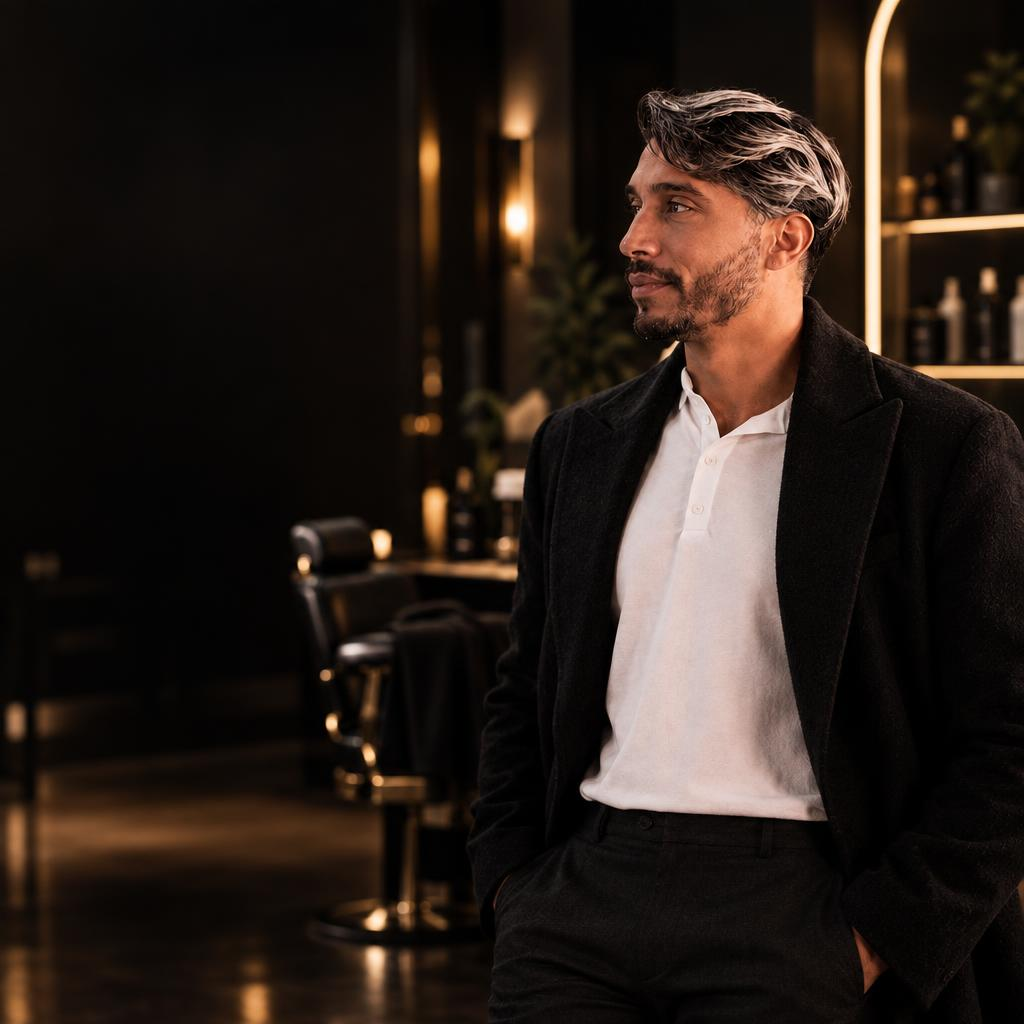
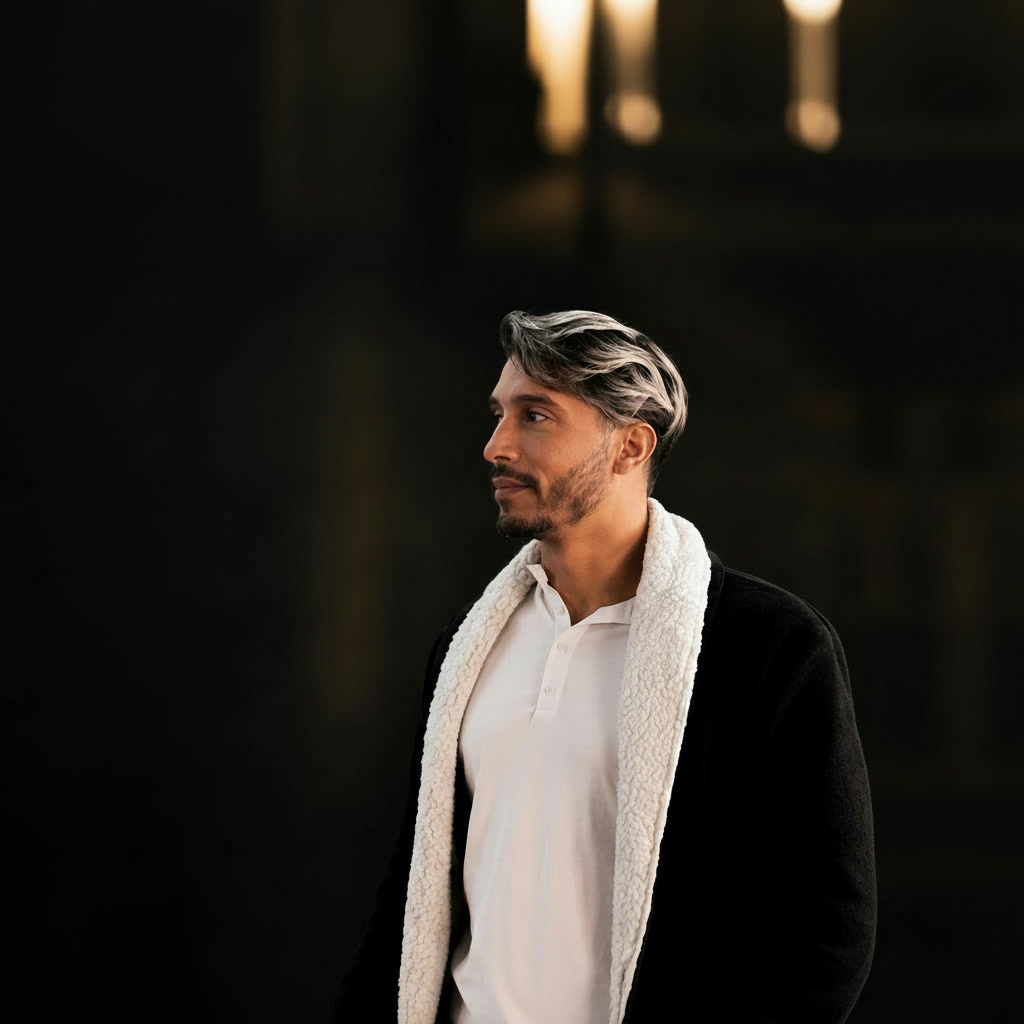
style hero

diff --git a/src/sections/hero.tsx b/src/sections/hero.tsx
@@ -4,28 +4,71 @@ import CircularText from "../../components/ui/circularText";
 
 export function Hero() {
     return (
-        <section className="hero relative flex h-svh py-50  md:items-center  px-4 text-white sm:px-10 md:px-20 justify-center lg:justify-start 2xl:px-45">
-
-
-            <div className="relative z-10 w-full text-center max-w-80 
-            md:max-w-140  lg:max-w-xl lg:text-start 2xl:max-w-2xl">
-                <span className="mb-6 ml-4 flex items-center gap-4 text-xs font-medium uppercase tracking-[0.2em] text-white justify-center lg:justify-start">
-
-                    <span className="h-px w-8 bg-[#C9A24D] hidden lg:block" />
+        <section
+            className="
+                hero relative flex h-svh
+                items-end justify-start
+                px-5 pb-16
+                text-white
+                sm:px-10 sm:pb-20
+                md:items-center md:px-20 md:pb-0
+                lg:justify-start
+                2xl:px-45
+            "
+        >
+            <div
+                className="
+                    relative z-10 w-full
+                    max-w-[340px]
+                    text-left
+                    sm:max-w-lg
+                    md:max-w-140
+                    lg:max-w-xl
+                    2xl:max-w-2xl
+                "
+            >
+                <span
+                    className="
+                        mb-6
+                        flex items-center gap-4
+                        text-xs font-medium uppercase
+                        tracking-[0.2em] text-white
+                    "
+                >
+                    <span className="hidden h-px w-8 bg-[#C9A24D] lg:block" />
                     UM MOMENTO SÓ SEU
-
                 </span>
-                <h1 className="text-4xl font-medium  sm:text-5xl md:text-6xl lg:leading-18 2xl:text-7xl 2xl:leading-20">
+
+                <h1
+                    className="
+                        text-4xl font-medium
+                        sm:text-5xl
+                        md:text-6xl
+                        lg:leading-18
+                        2xl:text-7xl 2xl:leading-20
+                    "
+                >
                     A arte de cuidar da{" "}
-                    <span className="text-[#C9A24D]">sua beleza</span>
+                    <span className="text-[#C9A24D]">
+                        sua beleza
+                    </span>
                 </h1>
 
-                <p className="mx-auto mt-5 max-w-sm text-sm leading-relaxed text-[#F2EDE9]/80 sm:text-base md:max-w-xl md:text-lg lg:mx-0">
-                    Cabelo, sobrancelhas e unhas para realçar sua beleza e expressar
-                    seu estilo. Atendimento no salão ou no conforto da sua casa.
+                <p
+                    className="
+                        mt-5 max-w-sm
+                        text-sm leading-relaxed
+                        text-[#F2EDE9]/80
+                        sm:text-base
+                        md:text-lg
+                    "
+                >
+                    Cabelo, sobrancelhas e unhas para realçar
+                    sua beleza e expressar seu estilo. Atendimento
+                    no salão ou no conforto da sua casa.
                 </p>
 
-                <div className="hidden lg:flex mt-5  items-center  gap-2 justify-start">
+                <div className="mt-5 hidden items-center gap-2 lg:flex">
                     <div className="h-0.5 w-full max-w-70 rounded-full bg-[#8b6d1f] sm:max-w-90 lg:w-110" />
 
                     <TbSparkle
@@ -35,12 +78,12 @@ export function Hero() {
                     />
                 </div>
 
-                <Button text="Agende seu horário" className="mt-8" onClick={() => alert("a")} />
+                <Button
+                    text="Agende seu horário"
+                    className="mt-8"
+                    onClick={() => alert("a")}
+                />
             </div>
-
-
-
-
         </section>
-    )
+    );
 }

diff --git a/components/ui/button.tsx b/components/ui/button.tsx
@@ -1,4 +1,3 @@
-
 "use client";
 
 import { ArrowRight } from "lucide-react";
@@ -8,35 +7,55 @@ interface ButtonProps {
   className?: string;
   onClick?: () => void;
 }
+
 export function Button({ text, className, onClick }: ButtonProps) {
   return (
-    <div className="relative mt-8 flex justify-center lg:justify-start">
-
+    <div className={`relative mt-8 flex justify-start ${className ?? ""}`}>
       <button
-        className="group relative z-20 flex w-full max-w-70 cursor-pointer items-center overflow-hidden rounded border border-[#b9913e] px-2 py-3 text-white transition"
+        className="
+          group relative z-20
+          flex w-full
+          cursor-pointer items-center
+          overflow-hidden rounded
+          border border-[#b9913e]
+          bg-[#b9913e]
+          px-4 py-3
+          text-white
+          transition
+          lg:max-w-70
+          lg:bg-transparent
+        "
         onClick={onClick}
       >
+        <div className="absolute left-0 top-0 hidden h-full w-10 bg-[#b9913e] transition-all duration-500 group-hover:w-full lg:block" />
 
-        <div className="absolute left-0 top-0 h-full w-10 bg-[#b9913e] transition-all duration-500 group-hover:w-full" />
+        {/* Texto centralizado */}
+        <span className="relative z-10 w-full text-center">
+          {text}
+        </span>
 
-
-        <div className="relative z-10 flex items-center gap-14">
-          <ArrowRight
-            size={20}
-            className="transition-transform duration-500 group-hover:translate-x-1 "
-          />
-
-          <span>{text}</span>
-        </div>
+        {/* Seta fixa na direita */}
+        <ArrowRight
+          size={20}
+          className="
+            absolute right-4 z-10
+            transition-transform duration-500
+            group-hover:translate-x-1
+          "
+        />
       </button>
-
-
 
       {/* Rabisco */}
       <svg
         xmlns="http://www.w3.org/2000/svg"
         viewBox="0 0 600 220"
-        className="pointer-events-none absolute left-1/2 top-10 z-10 h-14 w-50 -translate-x-1/2 sm:left-35 sm:translate-x-0"
+        className="
+          pointer-events-none absolute
+          left-1/2 top-10 z-10
+          h-14 w-50
+          -translate-x-1/2
+          sm:left-35 sm:translate-x-0
+        "
         fill="none"
       >
         <g

diff --git a/app/globals.css b/app/globals.css
@@ -75,7 +75,7 @@ body {
     content: "";
     position: absolute;
     inset: 0;
-    background: rgba(0, 0, 0, 0.65);
+    background: rgba(0, 0, 0, 0.45);
     z-index: 0;
   }
 
